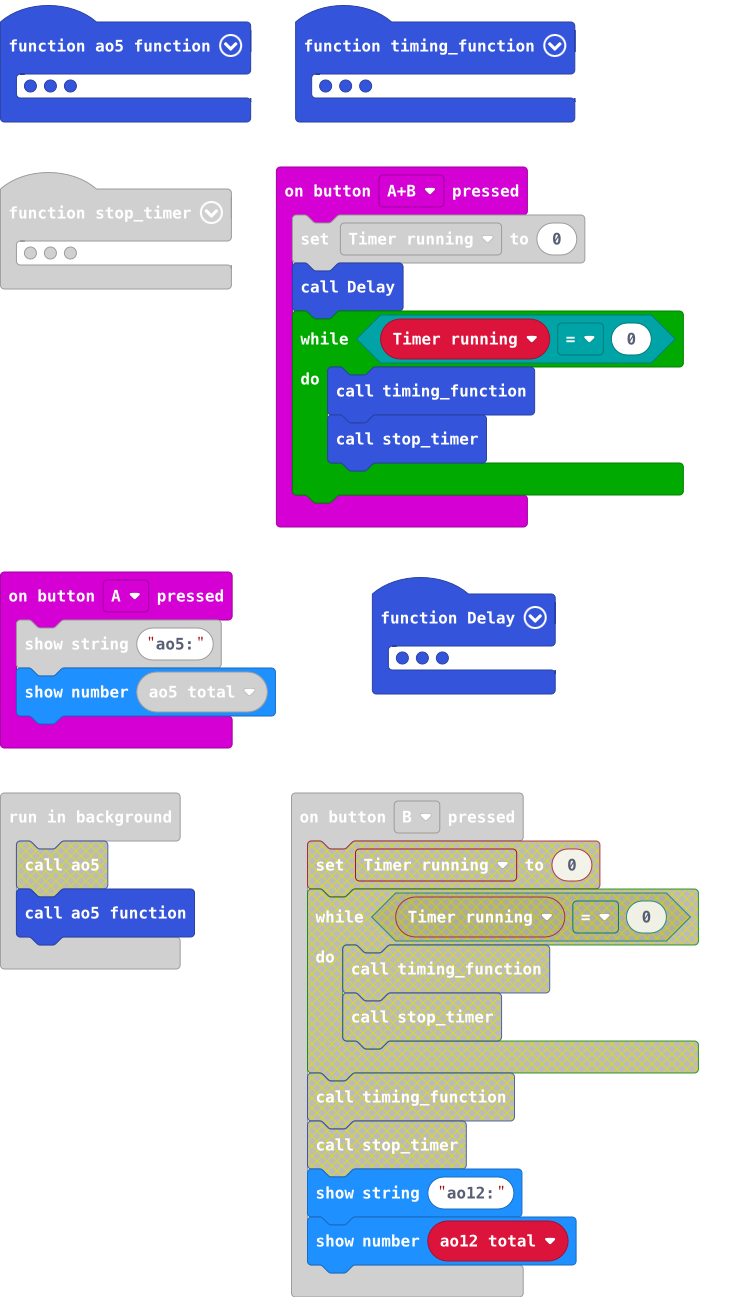
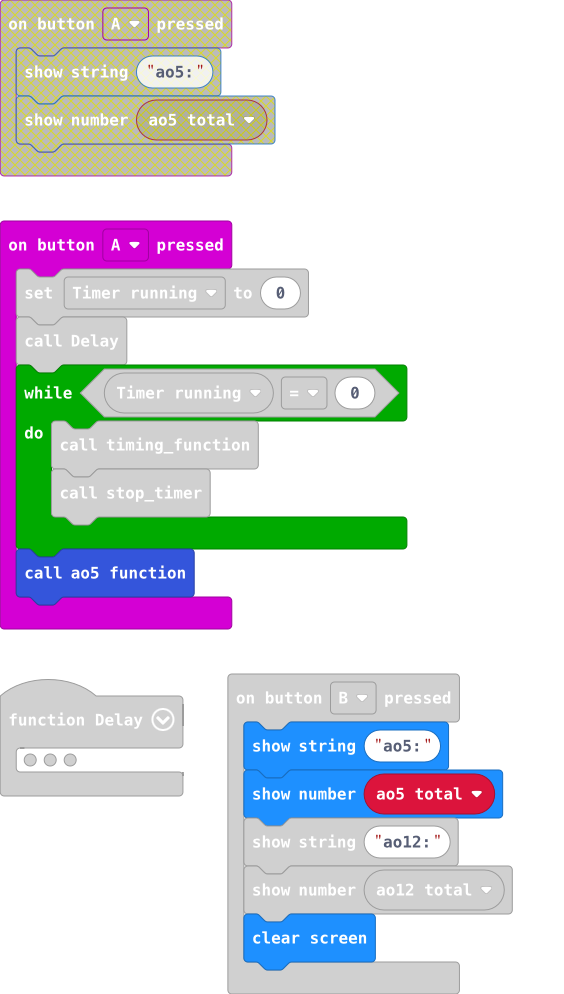
Added average of 5 statistics. Fixed timer delay.

diff --git a/main.ts b/main.ts
@@ -261,45 +261,49 @@ function ao5_function () {
     ao5_total = (ao5[0] + ao5[1] + ao5[2] + ao5[3] + ao5[4]) / 5
 }
 input.onButtonPressed(Button.A, function () {
-    basic.showString("ao5:")
-    basic.showNumber(ao5_total)
-})
-function timing_function () {
-    Current_time = Current_time + 0.01
-    basic.pause(10)
-}
-input.onButtonPressed(Button.AB, function () {
     Timer_running = 0
     Delay()
     while (Timer_running == 0) {
         timing_function()
         stop_timer()
     }
+    ao5_function()
 })
+function timing_function () {
+    Current_time = Current_time + 0.01
+    basic.pause(10)
+}
 input.onButtonPressed(Button.B, function () {
     let ao12_total = 0
+    basic.showString("ao5:")
+    basic.showNumber(ao5_total)
     basic.showString("ao12:")
     basic.showNumber(ao12_total)
+    basic.clearScreen()
 })
 function Delay () {
     start_delay = 0
     start_delay_check = 0
-    while (input.buttonIsPressed(Button.AB) && start_delay_check == 0) {
-        start_delay = start_delay + 0.01
-        if (start_delay >= 0.5) {
-            start_delay_check = 1
-        } else {
-            basic.pause(0.01)
+    while (start_delay_check == 0) {
+        if (input.buttonIsPressed(Button.AB)) {
+            while (input.buttonIsPressed(Button.AB) || start_delay_check == 0) {
+                start_delay = start_delay + 0.1
+                if (start_delay > 0.5) {
+                    start_delay_check = 1
+                } else {
+                    basic.pause(0.10)
+                }
+            }
+            basic.showLeds(`
+                # . # . #
+                . # . # .
+                # . # . #
+                . # . # .
+                # . # . #
+                `)
+            basic.clearScreen()
         }
     }
-    basic.showLeds(`
-        # . # . #
-        . # . # .
-        # . # . #
-        . # . # .
-        # . # . #
-        `)
-    basic.clearScreen()
 }
 let start_delay_check = 0
 let start_delay = 0
@@ -310,5 +314,5 @@ let ao5: number[] = []
 let Times: number[] = []
 start_screen()
 control.inBackground(function () {
-    ao5_function()
+	
 })
